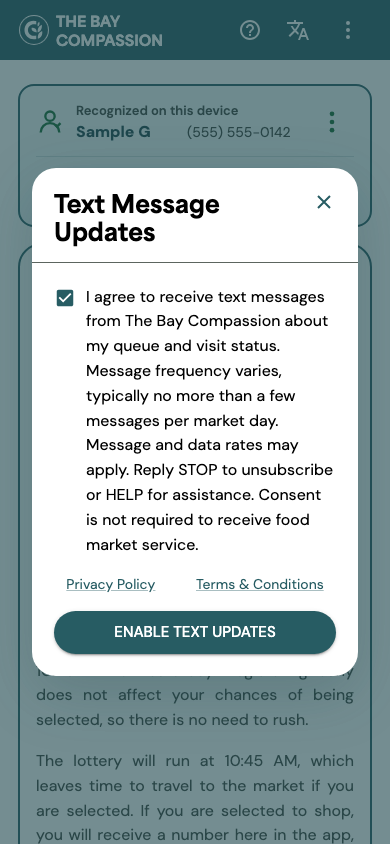
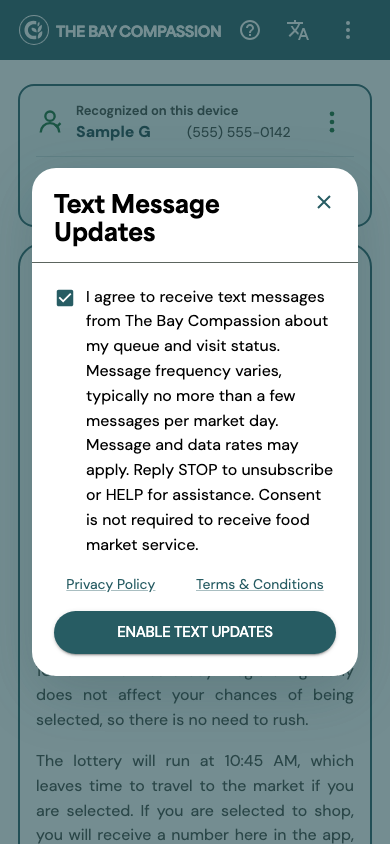
Refine brand lockup proportions and app typography spacing

Changed region(s): [[0.1231, 0.0, 0.5846, 0.0616], [0.5231, 0.7393, 0.7077, 0.7701], [0.2769, 0.7393, 0.4615, 0.7701]]

diff --git a/packages/presentations/portfolio/social.html b/packages/presentations/portfolio/social.html
@@ -31,12 +31,12 @@
 				border-bottom: 18px solid var(--social-accent);
 			}
 			.brand-lockup {
-				--brand-lockup-size: 28px;
+				--brand-lockup-size: 44px;
 			}
 			p {
 				color: var(--social-accent);
 				font-size: 24px;
-				margin: 30px 0 22px;
+				margin: 52px 0 24px;
 			}
 			h1 {
 				font-family: var(--font-heading);
@@ -47,14 +47,17 @@
 				max-width: 980px;
 			}
 			footer {
-				margin-top: 38px;
+				margin-top: 40px;
 				font-size: 25px;
 				color: var(--social-text-muted);
 			}
 		</style>
 	</head>
 	<body>
-		<span class="brand-lockup wordmark" role="img" aria-label="The Bay Compassion"
+		<span
+			class="brand-lockup brand-lockup--inline wordmark"
+			role="img"
+			aria-label="The Bay Compassion"
 			><img
 				class="brand-lockup__icon"
 				src="../../../public/bay-compassion-icon-digital.svg"

diff --git a/src/theme.ts b/src/theme.ts
@@ -70,12 +70,13 @@ export const appTheme = createTheme({
 	},
 	typography: {
 		fontFamily: 'var(--font-body)',
+		button: { letterSpacing: 'var(--tracking-label)' },
 		h1: {
 			fontFamily: 'var(--font-heading)',
 			fontSize: '2.375rem',
 			fontWeight: 700,
 			lineHeight: 1.05,
-			letterSpacing: '-0.01em',
+			letterSpacing: 'var(--tracking-heading)',
 			textTransform: 'uppercase',
 		},
 	},
@@ -137,6 +138,7 @@ export const appTheme = createTheme({
 					color: 'var(--color-text)',
 					fontFamily: 'var(--font-heading)',
 					fontSize: 16,
+					letterSpacing: 'var(--tracking-label)',
 					fontWeight: 700,
 					lineHeight: 1.2,
 					'&.Mui-focused': { color: 'var(--color-text)' },

diff --git a/src/styles/base.css b/src/styles/base.css
@@ -29,6 +29,8 @@
 	--color-error: #a12622;
 	--color-success: #146c34;
 	--color-warning: #7a4e00;
+	--tracking-heading: -0.035em;
+	--tracking-label: -0.02em;
 	--radius-sm: 8px;
 	--radius-md: 16px;
 	--radius-lg: 24px;
@@ -38,6 +40,11 @@
 	color: var(--color-text);
 	background: var(--color-background);
 	font-synthesis: none;
+}
+/* Preserve joined letterforms in Arabic and Farsi. */
+[dir='rtl'] {
+	--tracking-heading: 0;
+	--tracking-label: 0;
 }
 * {
 	box-sizing: border-box;
@@ -73,7 +80,7 @@ h1 {
 	font-size: 38px;
 	font-weight: 700;
 	line-height: 1.05;
-	letter-spacing: -0.01em;
+	letter-spacing: var(--tracking-heading);
 	text-transform: uppercase;
 }
 .sr-only {

diff --git a/public/flyers/ar.html b/public/flyers/ar.html
@@ -19,7 +19,10 @@
 	<body>
 		<main class="sheet">
 			<header class="masthead">
-				<span class="brand-lockup wordmark" role="img" aria-label="The Bay Compassion"
+				<span
+					class="brand-lockup brand-lockup--inline wordmark"
+					role="img"
+					aria-label="The Bay Compassion"
 					><img class="brand-lockup__icon" src="/bay-compassion-icon-digital.svg" alt="" /><span
 						class="brand-lockup__name"
 						aria-hidden="true"

diff --git a/public/flyers/en.html b/public/flyers/en.html
@@ -19,7 +19,10 @@
 	<body>
 		<main class="sheet">
 			<header class="masthead">
-				<span class="brand-lockup wordmark" role="img" aria-label="The Bay Compassion"
+				<span
+					class="brand-lockup brand-lockup--inline wordmark"
+					role="img"
+					aria-label="The Bay Compassion"
 					><img class="brand-lockup__icon" src="/bay-compassion-icon-digital.svg" alt="" /><span
 						class="brand-lockup__name"
 						aria-hidden="true"

diff --git a/public/flyers/es.html b/public/flyers/es.html
@@ -19,7 +19,10 @@
 	<body>
 		<main class="sheet">
 			<header class="masthead">
-				<span class="brand-lockup wordmark" role="img" aria-label="The Bay Compassion"
+				<span
+					class="brand-lockup brand-lockup--inline wordmark"
+					role="img"
+					aria-label="The Bay Compassion"
 					><img class="brand-lockup__icon" src="/bay-compassion-icon-digital.svg" alt="" /><span
 						class="brand-lockup__name"
 						aria-hidden="true"

diff --git a/public/flyers/fa.html b/public/flyers/fa.html
@@ -19,7 +19,10 @@
 	<body>
 		<main class="sheet">
 			<header class="masthead">
-				<span class="brand-lockup wordmark" role="img" aria-label="The Bay Compassion"
+				<span
+					class="brand-lockup brand-lockup--inline wordmark"
+					role="img"
+					aria-label="The Bay Compassion"
 					><img class="brand-lockup__icon" src="/bay-compassion-icon-digital.svg" alt="" /><span
 						class="brand-lockup__name"
 						aria-hidden="true"

diff --git a/public/flyers/fr.html b/public/flyers/fr.html
@@ -19,7 +19,10 @@
 	<body>
 		<main class="sheet">
 			<header class="masthead">
-				<span class="brand-lockup wordmark" role="img" aria-label="The Bay Compassion"
+				<span
+					class="brand-lockup brand-lockup--inline wordmark"
+					role="img"
+					aria-label="The Bay Compassion"
 					><img class="brand-lockup__icon" src="/bay-compassion-icon-digital.svg" alt="" /><span
 						class="brand-lockup__name"
 						aria-hidden="true"

diff --git a/public/flyers/tl.html b/public/flyers/tl.html
@@ -19,7 +19,10 @@
 	<body>
 		<main class="sheet">
 			<header class="masthead">
-				<span class="brand-lockup wordmark" role="img" aria-label="The Bay Compassion"
+				<span
+					class="brand-lockup brand-lockup--inline wordmark"
+					role="img"
+					aria-label="The Bay Compassion"
 					><img class="brand-lockup__icon" src="/bay-compassion-icon-digital.svg" alt="" /><span
 						class="brand-lockup__name"
 						aria-hidden="true"

diff --git a/public/flyers/vi.html b/public/flyers/vi.html
@@ -19,7 +19,10 @@
 	<body>
 		<main class="sheet">
 			<header class="masthead">
-				<span class="brand-lockup wordmark" role="img" aria-label="The Bay Compassion"
+				<span
+					class="brand-lockup brand-lockup--inline wordmark"
+					role="img"
+					aria-label="The Bay Compassion"
 					><img class="brand-lockup__icon" src="/bay-compassion-icon-digital.svg" alt="" /><span
 						class="brand-lockup__name"
 						aria-hidden="true"

diff --git a/public/flyers/zh.html b/public/flyers/zh.html
@@ -19,7 +19,10 @@
 	<body>
 		<main class="sheet">
 			<header class="masthead">
-				<span class="brand-lockup wordmark" role="img" aria-label="The Bay Compassion"
+				<span
+					class="brand-lockup brand-lockup--inline wordmark"
+					role="img"
+					aria-label="The Bay Compassion"
 					><img class="brand-lockup__icon" src="/bay-compassion-icon-digital.svg" alt="" /><span
 						class="brand-lockup__name"
 						aria-hidden="true"

diff --git a/src/components/EyebrowLabel.tsx b/src/components/EyebrowLabel.tsx
@@ -15,7 +15,7 @@ const Eyebrow = styled.p<{ $tone: EyebrowTone }>`
 	font-family: var(--font-heading);
 	font-size: 13.5px;
 	font-weight: 600;
-	letter-spacing: 0.1em;
+	letter-spacing: var(--tracking-label);
 	text-transform: uppercase;
 	color: ${({ $tone }) => ($tone === 'brand' ? 'var(--color-brand)' : 'var(--color-on-brand)')};
 `;
